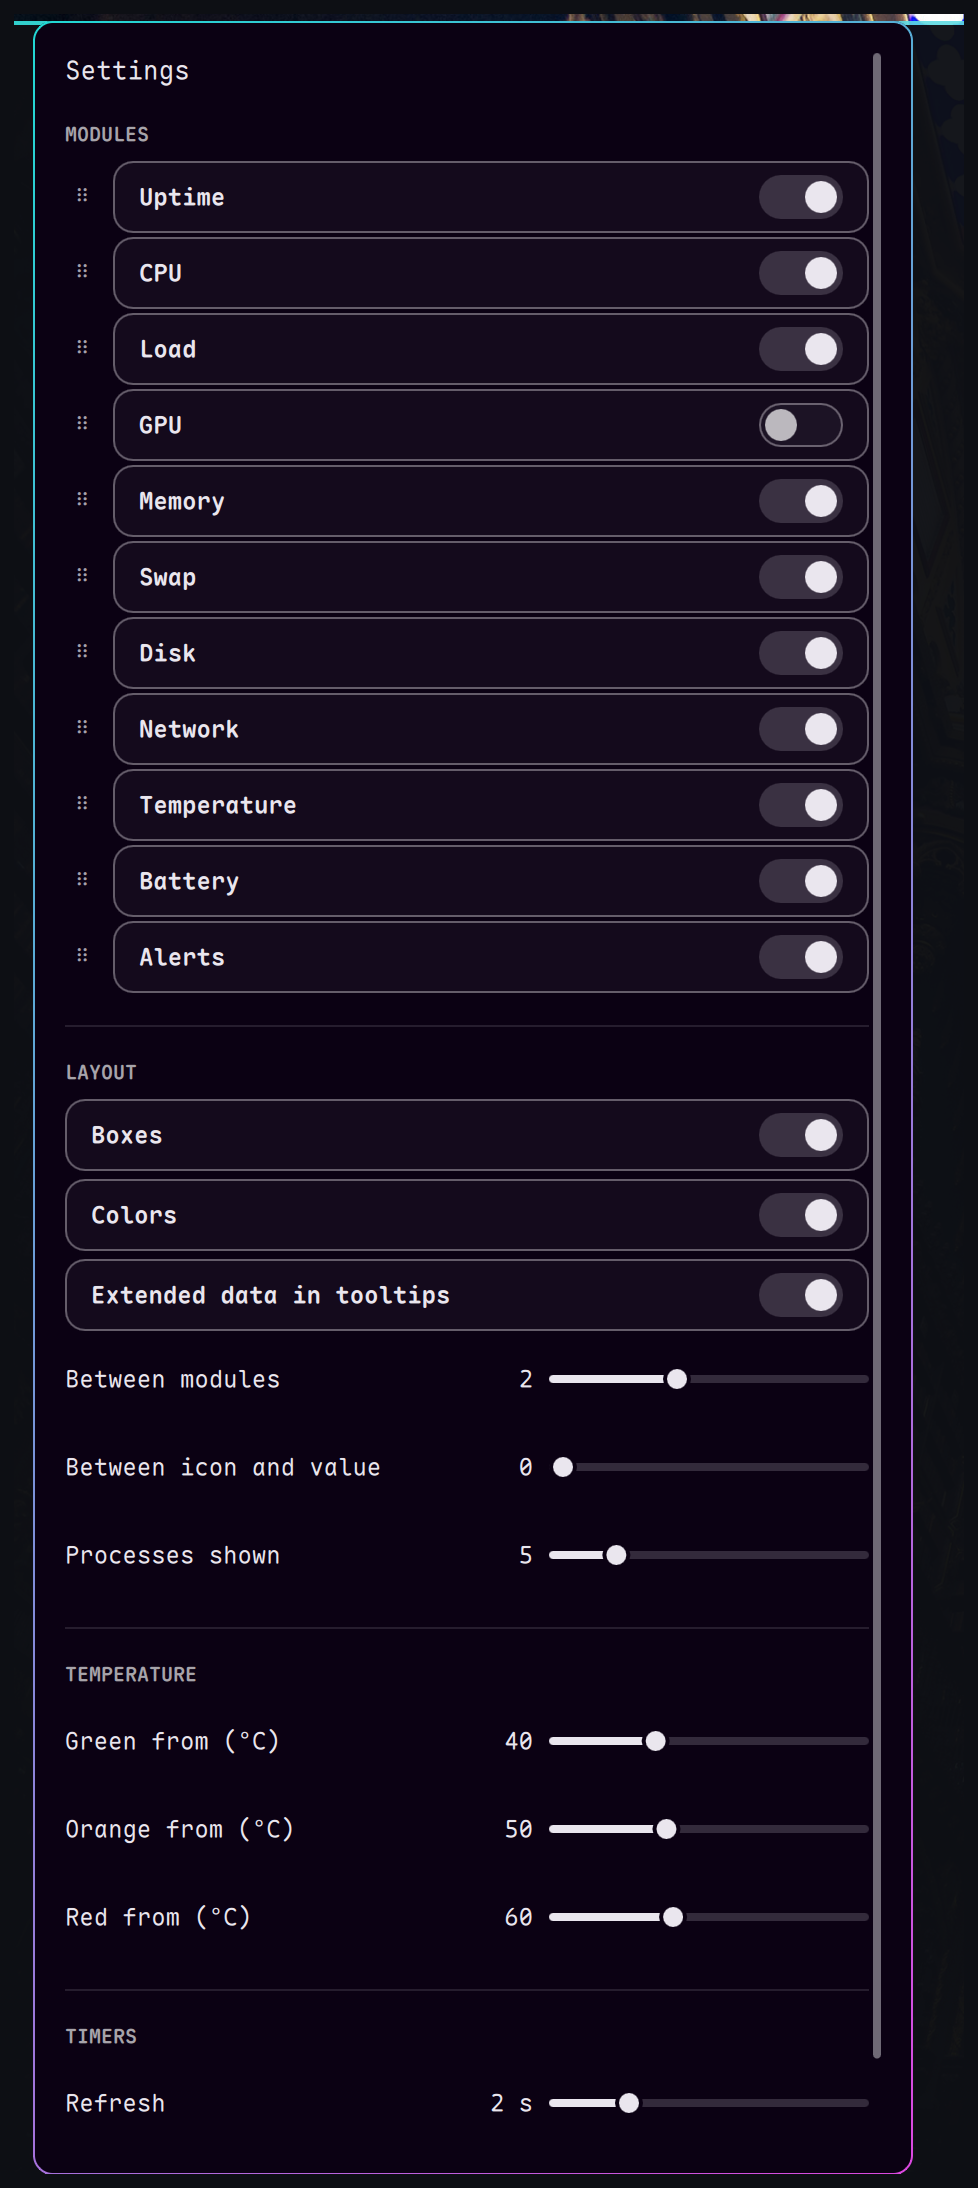
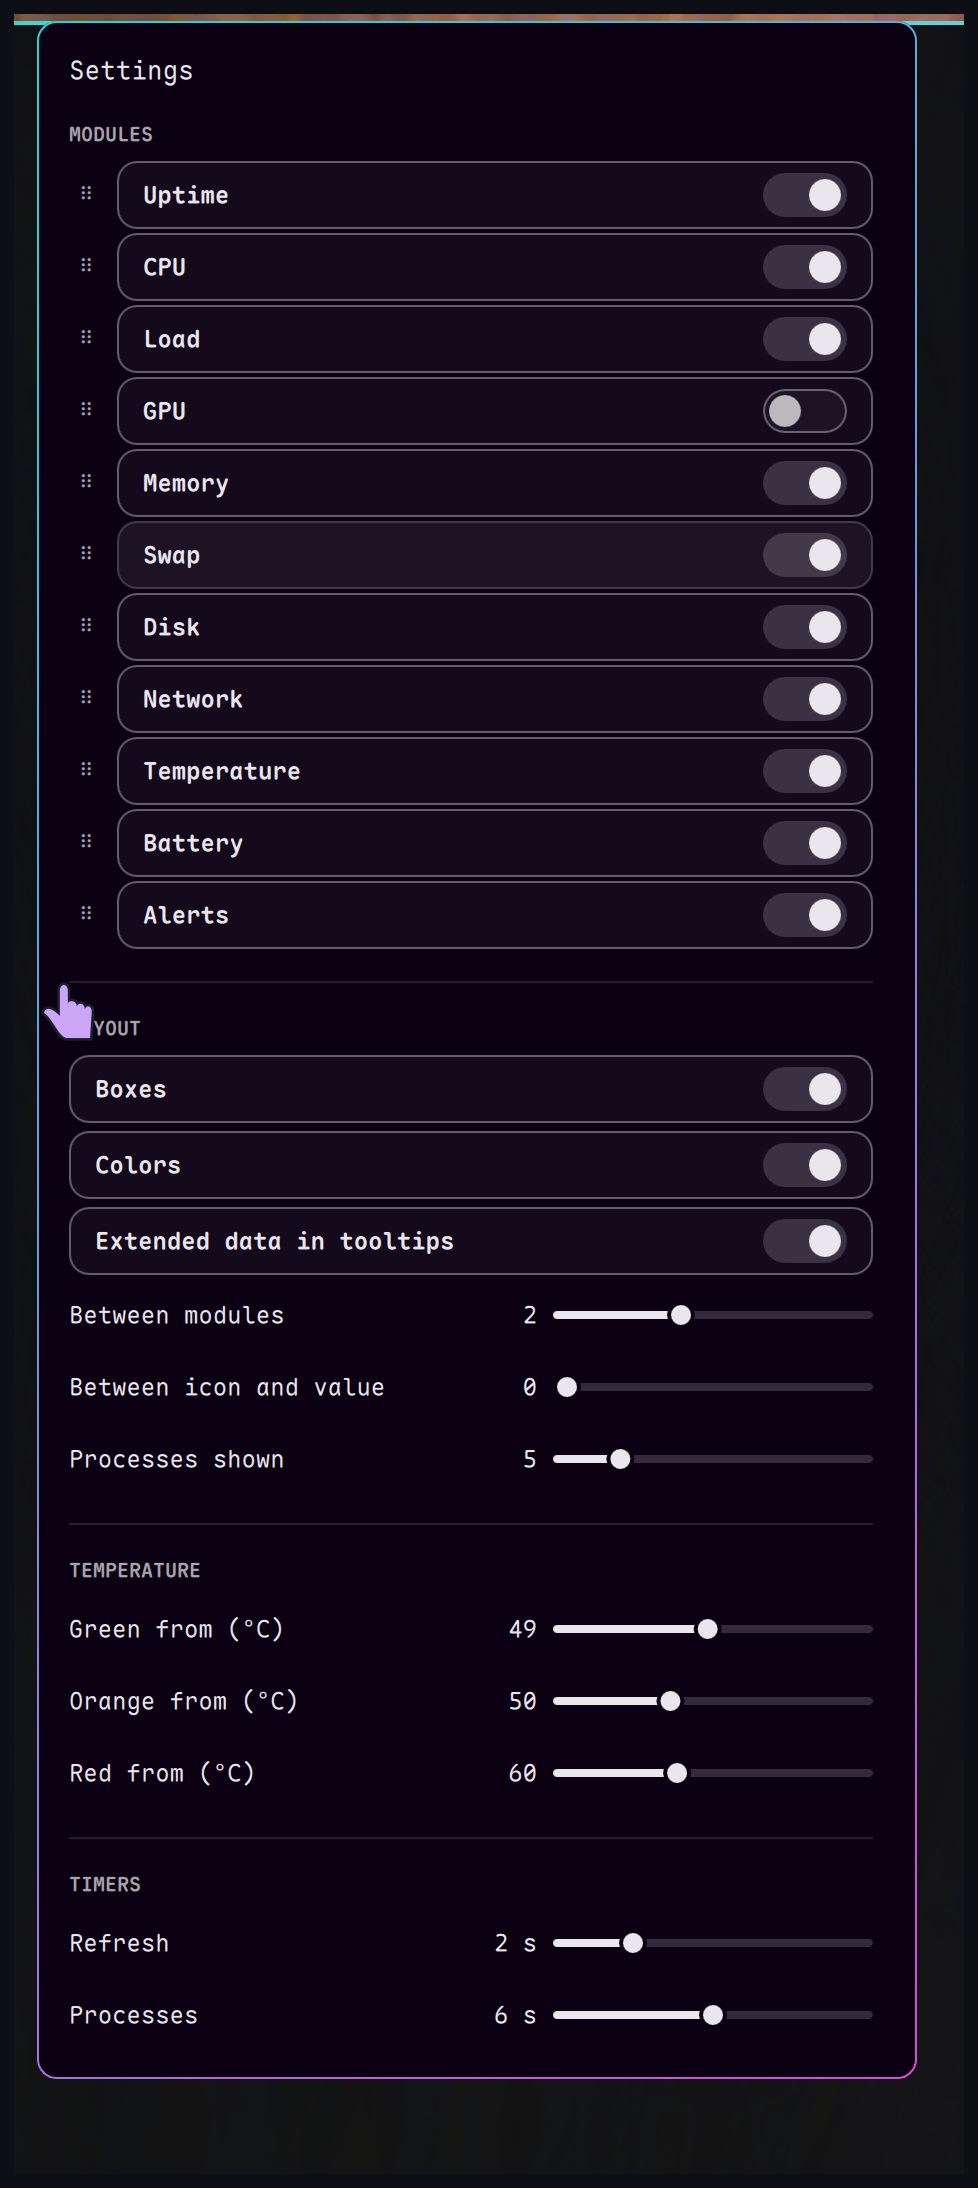
Tighten the Settings rows
Slider rows drop from 40 to 32 px and toggle rows from 36 to 34 px, which
shortens the panel enough to show every section (including Timers) at once.
Settings screenshot refreshed; version 1.23.2.

diff --git a/SettingsPanel.qml b/SettingsPanel.qml
@@ -50,7 +50,7 @@ PanelWindow {
 
     readonly property int panelWidth: Math.min(Style.space(440), Math.max(Style.space(280), (root.screen ? root.screen.width : Style.space(440)) - root.panelMargin * 2))
     readonly property int panelPadding: Style.space(16)
-    readonly property int toggleRowHeight: Style.space(36)
+    readonly property int toggleRowHeight: Style.space(34)
     readonly property int panelMargin: Style.space(4)
     // Plain properties updated once hostWidget is known: binding the sliders
     // to a not-yet-initialised readonly property logged QML warnings on open.
@@ -507,7 +507,7 @@ PanelWindow {
 
                 RowLayout {
                     Layout.fillWidth: true
-                    Layout.preferredHeight: Style.space(40)
+                    Layout.preferredHeight: Style.space(32)
                     spacing: Style.space(8)
 
                     WheelHandler {
@@ -567,7 +567,7 @@ PanelWindow {
 
                 RowLayout {
                     Layout.fillWidth: true
-                    Layout.preferredHeight: Style.space(40)
+                    Layout.preferredHeight: Style.space(32)
                     spacing: Style.space(8)
 
                     WheelHandler {
@@ -627,7 +627,7 @@ PanelWindow {
 
                 RowLayout {
                     Layout.fillWidth: true
-                    Layout.preferredHeight: Style.space(40)
+                    Layout.preferredHeight: Style.space(32)
                     spacing: Style.space(8)
 
                     WheelHandler {
@@ -703,7 +703,7 @@ PanelWindow {
 
                 RowLayout {
                     Layout.fillWidth: true
-                    Layout.preferredHeight: Style.space(40)
+                    Layout.preferredHeight: Style.space(32)
                     spacing: Style.space(8)
 
                     WheelHandler {
@@ -763,7 +763,7 @@ PanelWindow {
 
                 RowLayout {
                     Layout.fillWidth: true
-                    Layout.preferredHeight: Style.space(40)
+                    Layout.preferredHeight: Style.space(32)
                     spacing: Style.space(8)
 
                     WheelHandler {
@@ -825,7 +825,7 @@ PanelWindow {
 
                 RowLayout {
                     Layout.fillWidth: true
-                    Layout.preferredHeight: Style.space(40)
+                    Layout.preferredHeight: Style.space(32)
                     spacing: Style.space(8)
 
                     WheelHandler {
@@ -901,7 +901,7 @@ PanelWindow {
 
                 RowLayout {
                     Layout.fillWidth: true
-                    Layout.preferredHeight: Style.space(40)
+                    Layout.preferredHeight: Style.space(32)
                     spacing: Style.space(8)
 
                     WheelHandler {
@@ -961,7 +961,7 @@ PanelWindow {
 
                 RowLayout {
                     Layout.fillWidth: true
-                    Layout.preferredHeight: Style.space(40)
+                    Layout.preferredHeight: Style.space(32)
                     spacing: Style.space(8)
 
                     WheelHandler {

diff --git a/README.md b/README.md
@@ -1,6 +1,6 @@
 # YASSM — Yet Another Simple System Monitor
 
-Version 1.23.1
+Version 1.23.2
 
 **English** | [Français](README-fr.md)
 

diff --git a/README-fr.md b/README-fr.md
@@ -1,6 +1,6 @@
 # YASSM — Yet Another Simple System Monitor
 
-Version 1.23.1
+Version 1.23.2
 
 [English](README.md) | **Français**
 
